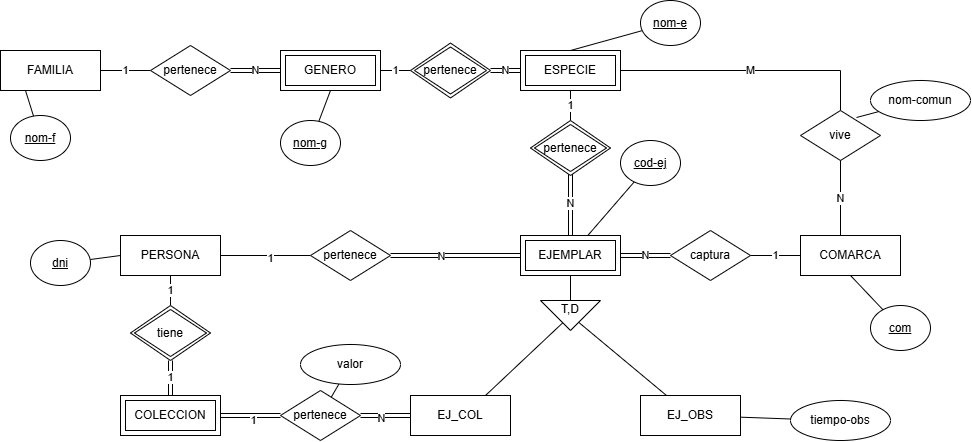
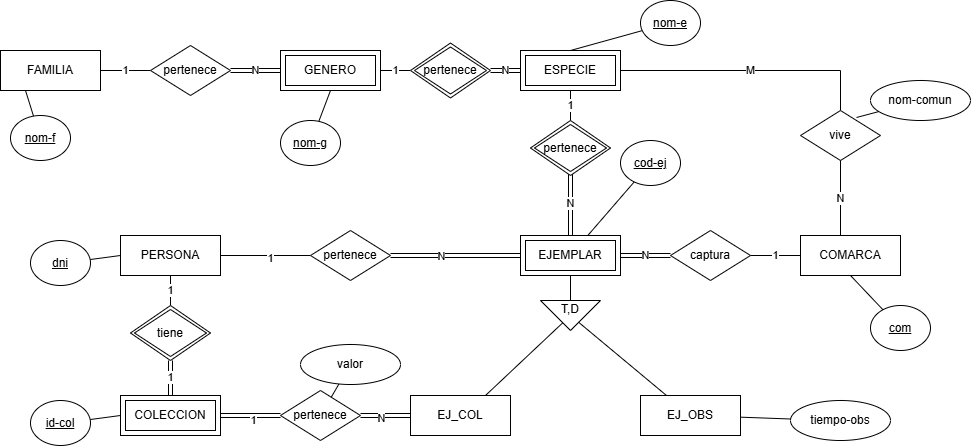
ej5-6

diff --git a/docs/css/extra.css b/docs/css/extra.css
@@ -573,7 +573,8 @@ body.lightbox-open {
 /* Semantic tags for relational constraints */
 .md-typeset .tag-no-nulo,
 .md-typeset .tag-cascade,
-.md-typeset .tag-unico {
+.md-typeset .tag-unico,
+.md-typeset .tag-nota {
     display: inline-block;
     padding: 0.08rem 0.45rem;
     border-radius: 999px;
@@ -602,6 +603,12 @@ body.lightbox-open {
     border: 1px solid #5bb6e8;
 }
 
+.md-typeset .tag-nota {
+    color: #4a1d7a;
+    background: #ecdfff;
+    border: 1px solid #b38be0;
+}
+
 [data-md-color-scheme="slate"] .md-typeset .tag-no-nulo {
     color: #dcffc0;
     background: rgba(82, 123, 33, 0.34);
@@ -618,6 +625,12 @@ body.lightbox-open {
     color: #caeeff;
     background: rgba(16, 78, 112, 0.42);
     border: 1px solid #6dc8ff;
+}
+
+[data-md-color-scheme="slate"] .md-typeset .tag-nota {
+    color: #e5d4ff;
+    background: rgba(95, 48, 150, 0.38);
+    border: 1px solid #c79bf0;
 }
 
 /* Colored chips for Normalizacion full example steps */

diff --git a/docs/Model_Relacional/soluciones.md b/docs/Model_Relacional/soluciones.md
@@ -162,6 +162,9 @@ hide:
                 - FK: dni->CLIENTE(dni)
 
         !!! quote "Opción 2"
+
+            <span class="tag-nota">[nota]</span> En **DOMICILIACION** y **PERMISOS** se ha aplicado el **criterio práctico**: como su clave compuesta "natural" tenía demasiados campos (4 y 5, respectivamente), se sustituye por una clave artificial (`num-d` y `cod-p`), manteniendo las claves externas correspondientes.
+         
             - **BANCO** (<u>cod-ent</u>)
                 - PK: (cod-ent)
             - **SUCURSAL** (<u><mark>cod-ent</mark>, cod-suc</u>) <span class="tag-cascade">(borrar en cascada)</span>
@@ -183,6 +186,8 @@ hide:
                 - PK: (cod-p)
                 - FK: cod-ent, cod-suc, cod-cc->CUENTA CORRIENTE(cod-ent, cod-suc, cod-cc) <span class="tag-no-nulo">[no nulo]</span>
                 - FK: dni->CLIENTE(dni)  <span class="tag-no-nulo">[no nulo]</span>
+
+           
 
 ??? example "Ejercicio 6"
 
@@ -227,9 +232,12 @@ hide:
                 - PK: (dni)
                 - FK: dni->PERSONA(dni)
                       
-            <span class="tag-no-nulo">[nota]</span> La especialización de **EJEMPLAR** en **EJ_COL** y **EJ_OBS** es total y disjunta (T,D).   
+            <span class="tag-nota">[nota]</span> La especialización de **EJEMPLAR** en **EJ_COL** y **EJ_OBS** es total y disjunta (T,D).   
 
         !!! quote "Opción 2"
+
+            <span class="tag-nota">[nota]</span> Aquí no se inventa una clave artificial nueva: se simplifica la clave de **EJEMPLAR** a `cod-ej` por considerarlo único por sí mismo (sin necesidad de combinarlo con `nom-g` y `nom-e`), y esa misma clave se reutiliza como PK/FK en **EJ_COL** y **EJ_OBS**.
+
             - **FAMILIA** (<u>nom-f</u>)
                 - PK: (nom-f)
             - **GENERO** (<u>nom-g</u>, <mark>nom-f</mark>) <span class="tag-cascade">(borrar en cascada)</span>
@@ -264,7 +272,9 @@ hide:
                 - PK: (dni)
                 - FK: dni->PERSONA(dni)<span class="tag-no-nulo">[no nulo]</span>    
 
-             <span class="tag-no-nulo">[nota]</span> La especialización de **EJEMPLAR** en **EJ_COL** y **EJ_OBS** es total y disjunta (T,D).    
+             <span class="tag-nota">[nota]</span> La especialización de **EJEMPLAR** en **EJ_COL** y **EJ_OBS** es total y disjunta (T,D).    
+
+            
 
 
 ??? example "Ejercicio 7"
